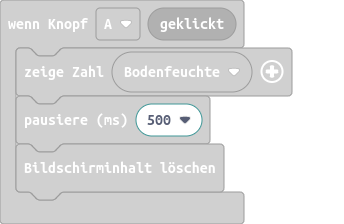
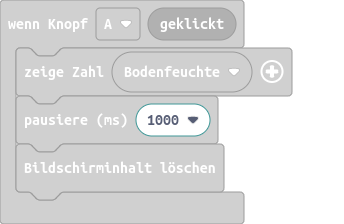
Aktualisiere main.blocks, main.ts

Changed region(s): [[0.4942, 0.4062, 0.6395, 0.6562], [0.436, 0.5, 0.4651, 0.5625]]

diff --git a/main.ts b/main.ts
@@ -1,6 +1,6 @@
 input.onButtonEvent(Button.A, input.buttonEventClick(), function () {
     basic.showNumber(Bodenfeuchte)
-    basic.pause(500)
+    basic.pause(1000)
     basic.clearScreen()
 })
 function Pumpe_aus () {
